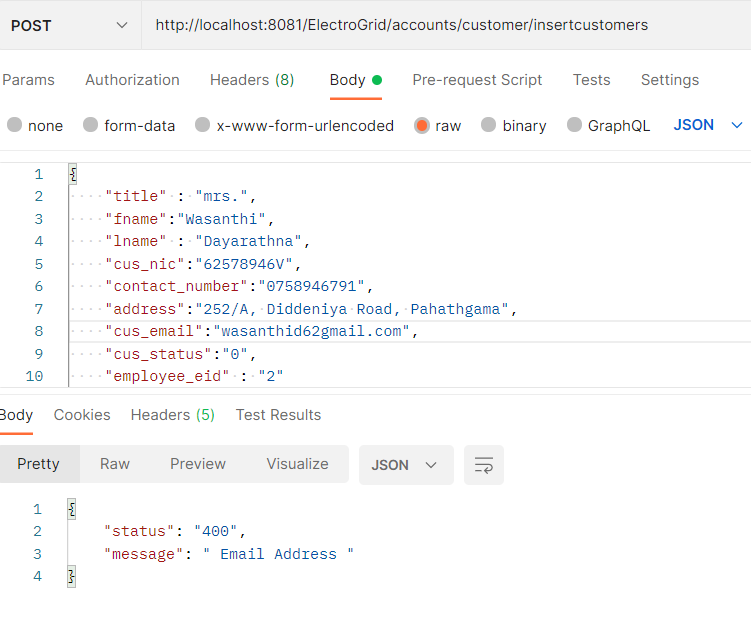
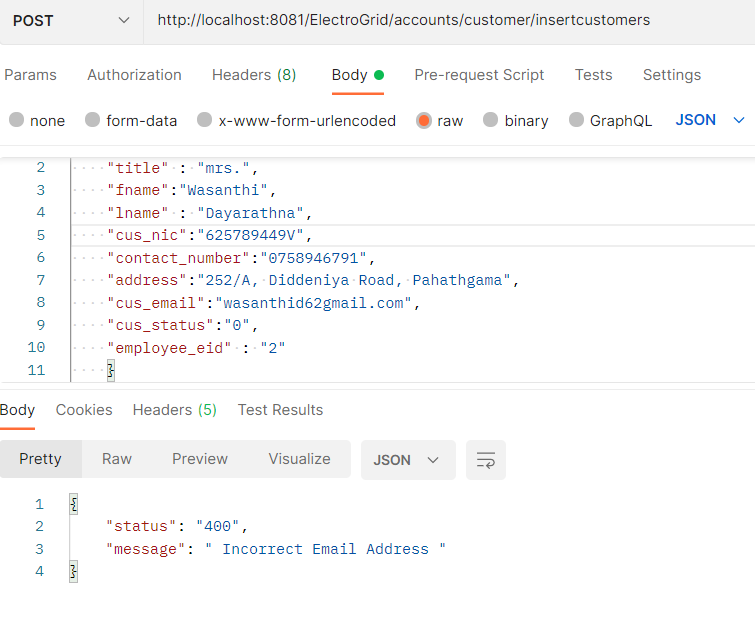
udaing model

diff --git a/IT19556994/ElectroGrid/src/main/java/com/model/CustomerModel.java b/IT19556994/ElectroGrid/src/main/java/com/model/CustomerModel.java
@@ -38,12 +38,12 @@ public class CustomerModel {
 
 			}
 
-			if (cus.getCus_nic().length() < 10 && cus.getCus_nic().length() > 12) {
+			if (cus.getCus_nic().length() < 10 || cus.getCus_nic().length() > 12) {
 				return "{\"status\":\"400\",\"message\":\" Incorrect NIC NO !\"}";
 			}
 
 			if (!Validation.isEmail(cus.getCus_email())) {
-				return "{\"status\":\"400\",\"message\":\" Email Address \"}";
+				return "{\"status\":\"400\",\"message\":\" Incorrect Email Address \"}";
 			}
 			if (!Validation.isPhoneNo(cus.getContact_number())) {
 				return "{\"status\":\"400\",\"message\":\" Incorrect Phone Number\"}";
